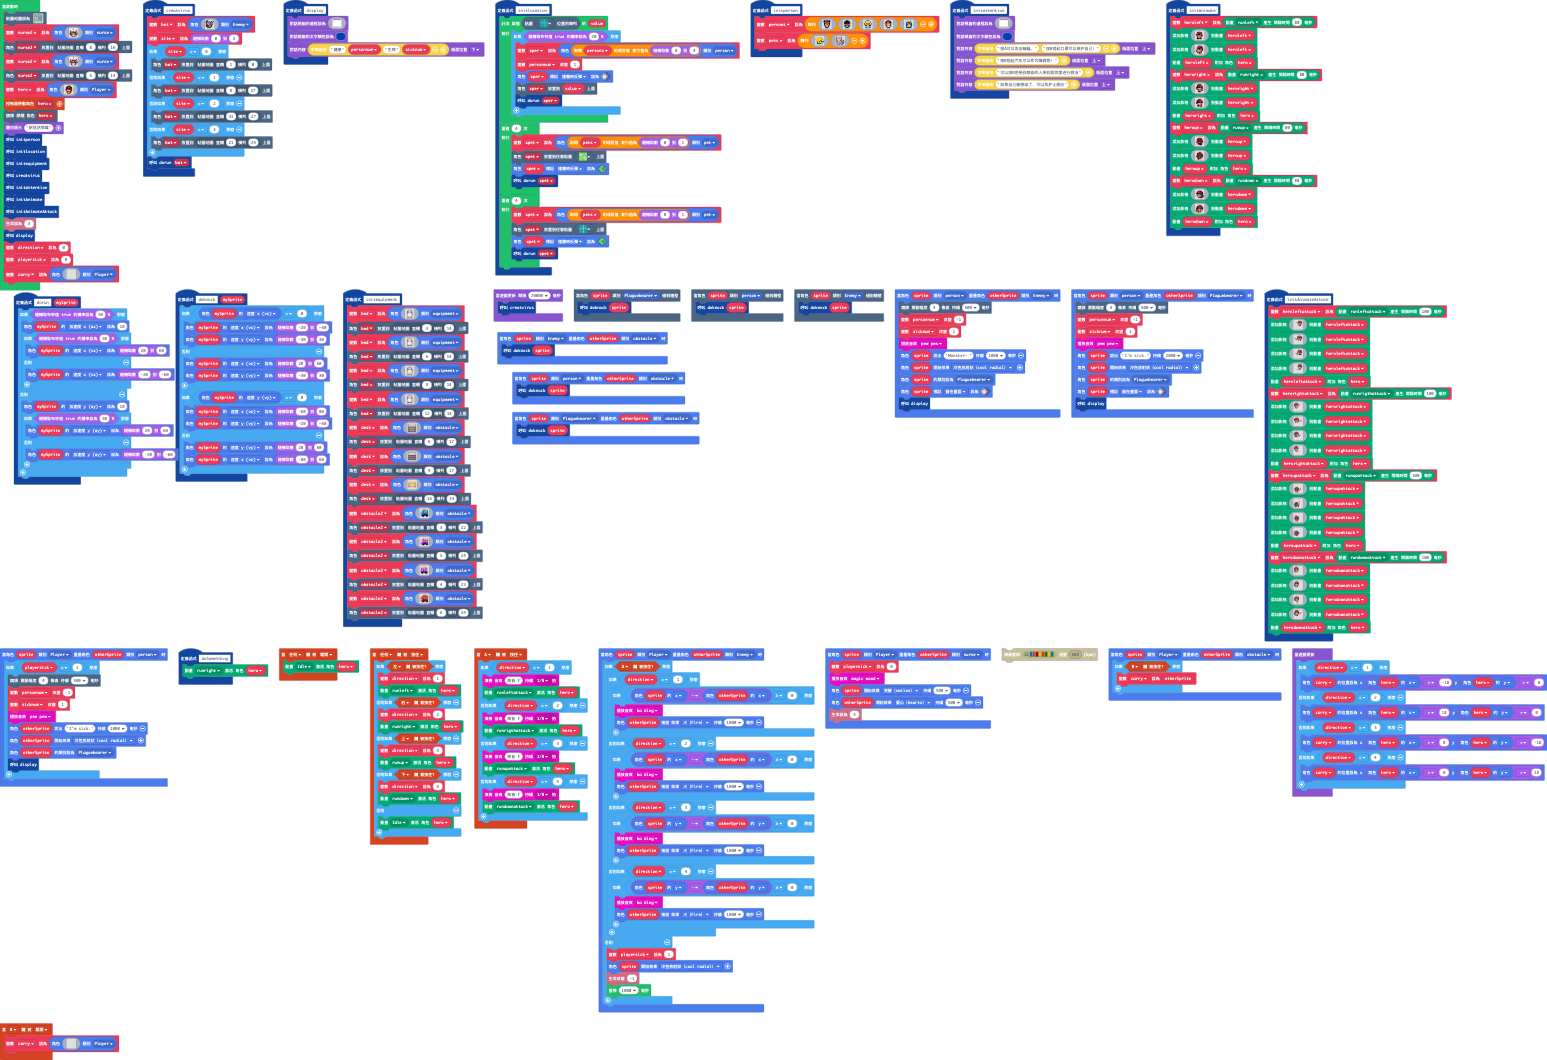
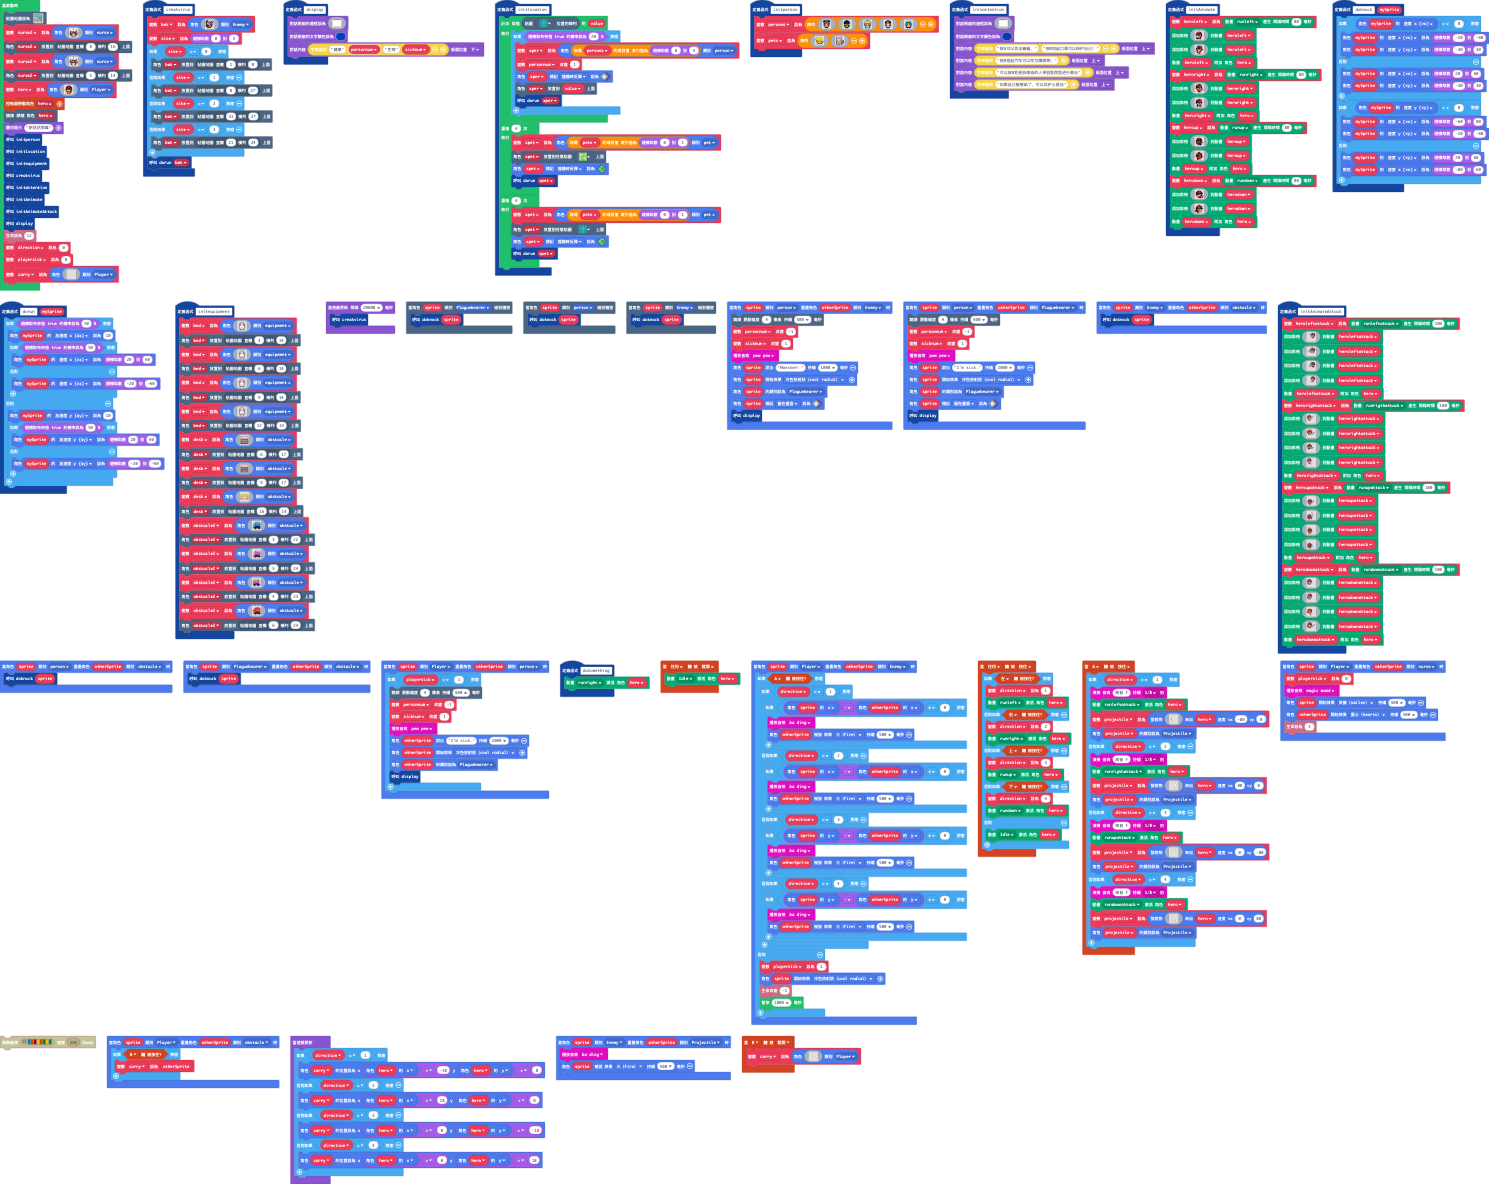
增加了剑气

diff --git a/main.ts b/main.ts
@@ -423,6 +423,10 @@ function initlocation () {
 sprites.onOverlap(SpriteKind.Enemy, SpriteKind.obstacle, function (sprite, otherSprite) {
     doknock(sprite)
 })
+sprites.onOverlap(SpriteKind.Enemy, SpriteKind.Projectile, function (sprite, otherSprite) {
+    music.baDing.play()
+    sprite.destroy(effects.fire, 500)
+})
 function doSomething () {
     animation.setAction(hero, ActionKind.runright)
 }
@@ -433,15 +437,91 @@ controller.A.onEvent(ControllerButtonEvent.Pressed, function () {
     if (direction == 1) {
         music.playTone(698, music.beat(BeatFraction.Eighth))
         animation.setAction(hero, ActionKind.runleftattack)
+        projectile = sprites.createProjectileFromSprite(img`
+. . . . . . . . . . . . . . . . 
+. . . . . . . . . . . . . . . . 
+. . . . . . . . . . . . . . . . 
+. . . . . b . . . . . . . . . . 
+. . . . b 1 . . . . . . . . . . 
+. . . . 1 . . . . . . . . . . . 
+. . . b 1 . . . . . . . . . . . 
+. . . b 1 . . . . . . . . . . . 
+. . . b 1 . . . . . . . . . . . 
+. . . b b . . . . . . . . . . . 
+. . . . 1 . . . . . . . . . . . 
+. . . . b 1 . . . . . . . . . . 
+. . . . . b 1 . . . . . . . . . 
+. . . . . . b . . . . . . . . . 
+. . . . . . . . . . . . . . . . 
+. . . . . . . . . . . . . . . . 
+`, hero, -80, 0)
+        projectile.setKind(SpriteKind.Projectile)
     } else if (direction == 2) {
         music.playTone(698, music.beat(BeatFraction.Eighth))
         animation.setAction(hero, ActionKind.runrigthattack)
+        projectile = sprites.createProjectileFromSprite(img`
+. . . . . . . . . . . . . . . . 
+. . . . . . . . . . . . . . . . 
+. . . . . . . . . . . . . . . . 
+. . . . . . . . . . b . . . . . 
+. . . . . . . . . . 1 b . . . . 
+. . . . . . . . . . . 1 . . . . 
+. . . . . . . . . . . 1 b . . . 
+. . . . . . . . . . . 1 b . . . 
+. . . . . . . . . . . 1 b . . . 
+. . . . . . . . . . . 1 b . . . 
+. . . . . . . . . . . 1 . . . . 
+. . . . . . . . . . 1 b . . . . 
+. . . . . . . . . 1 b . . . . . 
+. . . . . . . . . b . . . . . . 
+. . . . . . . . . . . . . . . . 
+. . . . . . . . . . . . . . . . 
+`, hero, 80, 0)
+        projectile.setKind(SpriteKind.Projectile)
     } else if (direction == 3) {
         music.playTone(698, music.beat(BeatFraction.Eighth))
         animation.setAction(hero, ActionKind.runupattack)
+        projectile = sprites.createProjectileFromSprite(img`
+. . . . . . . . . . . . . . . . 
+. . . . . . . b b . . . . . . . 
+. . . . . b 1 1 1 1 b . . . . . 
+. . . . . b . . . 1 b . . . . . 
+. . . . b 1 . . . . 1 b . . . . 
+. . . . . . . . . . . . . . . . 
+. . . . . . . . . . . . . . . . 
+. . . . . . . . . . . . . . . . 
+. . . . . . . . . . . . . . . . 
+. . . . . . . . . . . . . . . . 
+. . . . . . . . . . . . . . . . 
+. . . . . . . . . . . . . . . . 
+. . . . . . . . . . . . . . . . 
+. . . . . . . . . . . . . . . . 
+. . . . . . . . . . . . . . . . 
+. . . . . . . . . . . . . . . . 
+`, hero, 0, -80)
+        projectile.setKind(SpriteKind.Projectile)
     } else if (direction == 4) {
         music.playTone(698, music.beat(BeatFraction.Eighth))
         animation.setAction(hero, ActionKind.rundownattack)
+        projectile = sprites.createProjectileFromSprite(img`
+. . . . . . . . . . . . . . . . 
+. . . . . . . . . . . . . . . . 
+. . . . . . . . . . . . . . . . 
+. . . . . . . . . . . . . . . . 
+. . . . . . . . . . . . . . . . 
+. . . . . . . . . . . . . . . . 
+. . . . . . . . . . . . . . . . 
+. . . . . . . . . . . . . . . . 
+. . . . . . . . . . . . . . . . 
+. . . . 1 . . . . . . . . . . . 
+. . . . b 1 . . . . . b . . . . 
+. . . . b 1 . . . . 1 b . . . . 
+. . . . . b 1 1 1 1 b . . . . . 
+. . . . . . . b b . . . . . . . 
+. . . . . . . . . . . . . . . . 
+. . . . . . . . . . . . . . . . 
+`, hero, 0, 80)
+        projectile.setKind(SpriteKind.Projectile)
     }
 })
 sprites.onOverlap(SpriteKind.Player, SpriteKind.Enemy, function (sprite, otherSprite) {
@@ -449,22 +529,22 @@ sprites.onOverlap(SpriteKind.Player, SpriteKind.Enemy, function (sprite, otherSp
         if (direction == 1) {
             if (sprite.x - otherSprite.x >= 0) {
                 music.baDing.play()
-                otherSprite.destroy(effects.fire, 1000)
+                otherSprite.destroy(effects.fire, 500)
             }
         } else if (direction == 2) {
             if (sprite.x - otherSprite.x <= 0) {
                 music.baDing.play()
-                otherSprite.destroy(effects.fire, 1000)
+                otherSprite.destroy(effects.fire, 500)
             }
         } else if (direction == 3) {
             if (sprite.y - otherSprite.y >= 0) {
                 music.baDing.play()
-                otherSprite.destroy(effects.fire, 1000)
+                otherSprite.destroy(effects.fire, 500)
             }
         } else if (direction == 4) {
             if (sprite.y - otherSprite.y <= 0) {
                 music.baDing.play()
-                otherSprite.destroy(effects.fire, 1000)
+                otherSprite.destroy(effects.fire, 500)
             }
         }
     } else {
@@ -1386,6 +1466,7 @@ let heroleftattack: animation.Animation = null
 let obstacle2: Sprite = null
 let desk: Sprite = null
 let bed: Sprite = null
+let projectile: Sprite = null
 let pets: Image[] = []
 let xpet: Sprite = null
 let persons: Image[] = []
@@ -1403,20 +1484,20 @@ let playersick = 0
 let direction = 0
 let hero: Sprite = null
 tiles.setTilemap(tiles.createTilemap(
[2 lines of base64/hex data omitted]
             img`
 2 . 2 2 2 2 2 2 2 2 2 2 2 2 2 2 2 2 2 2 2 2 2 2 2 2 2 2 2 2 2 2 
 2 . 2 . . . . . . 2 . . . . . 2 . . . . . . . . 2 . . . . . . 2 
 2 . 2 . . . . . . 2 . . . . . 2 . . . . . . . . 2 . . . . . . 2 
 2 . 2 . . . . . . 2 . . . . . 2 . . . . . . . . 2 . . . . . . 2 
-2 . 2 2 2 . . 2 2 2 . 2 2 2 . 2 2 2 . . 2 2 2 2 2 . . 2 . . . 2 
+2 . . 2 2 . . 2 2 2 . . 2 2 2 2 2 2 . . 2 2 2 2 2 . . 2 . . . 2 
 2 . . . . . . . . . . . . . . . . . . . . . . . . . . 2 2 2 2 2 
-2 . 2 2 2 2 2 2 2 2 2 2 2 2 . 2 2 2 2 2 2 2 2 2 2 2 . 2 . . . 2 
+2 . 2 2 2 2 2 2 2 2 2 2 2 2 . . 2 2 2 2 2 2 2 2 2 2 . 2 . . . 2 
 2 . 2 . . . . . . . . . . 2 . 2 . . . . 2 . . . . 2 . 2 . . . 2 
 2 . 2 . . . . . . . . . . 2 . . . . . . 2 . . . . . . 2 . . . 2 
 2 . 2 . . . . . . . . . . 2 . . . . . . 2 . . . . . . 2 . . . 2 
 2 . 2 . . . . . . . . . . 2 . 2 . . . . 2 . . . . 2 . . . . . 2 
-2 . 2 2 2 2 2 . . 2 2 2 2 2 . 2 2 2 2 2 2 2 2 2 2 2 . . . . . 2 
+2 . . 2 2 2 2 . . 2 2 2 2 2 . . 2 2 2 2 2 2 2 2 2 . . . . . . 2 
 2 . . . . . . . . . . . . . . . . . . . . . . . . . . 2 . . . 2 
 2 . 2 2 2 2 2 2 2 2 2 2 2 2 . 2 2 2 2 2 2 2 2 2 2 2 . 2 . . . 2 
 2 . 2 . . . . . . . . . . 2 . 2 . . . . . . . . . 2 . 2 . . . 2 
@@ -1426,19 +1507,19 @@ tiles.setTilemap(tiles.createTilemap(
 2 . 2 . . . . . . . . . . 2 . 2 . . . . . . . . . 2 . 2 . . . 2 
 2 . 2 2 2 2 2 . . 2 2 2 2 2 . 2 2 2 2 . . . 2 2 2 2 . 2 . . . 2 
 2 . . . . . . . . . . . . . . . . . . . . . . . . . . 2 . . . 2 
-2 . 2 2 2 2 2 2 2 2 2 2 2 2 . 2 2 2 2 2 . 2 2 2 2 2 . . . . . 2 
-2 . 2 . . . . . . . . . . 2 . 2 . . . . . . . . . 2 . . . . . 2 
-2 . 2 . . . . . . . . . . 2 . . . . . . 2 2 . . . . . 2 . . . 2 
-2 . 2 . . . . . . . . . . 2 . . . . . . 2 2 . . . . . 2 . . . 2 
-2 . 2 . . . . . . . . . . 2 . 2 . . . . . . . . . 2 . 2 . . . 2 
-2 . 2 2 2 2 2 . . 2 2 2 2 2 . 2 2 2 2 2 . 2 2 2 2 2 . 2 2 2 2 2 
+2 . . 2 2 2 2 2 2 2 2 2 . . . 2 2 2 2 2 . 2 2 2 2 . . . . . . 2 
+2 . 2 . . . . . . . . 2 . . . 2 . . . . . . . . 2 . . . . . . 2 
+2 . 2 . . . . . . . . 2 . 2 . . . . . 2 2 . . . . . . 2 . . . 2 
+2 . 2 . . . . . . . . 2 . 2 . . . . . 2 2 . . . . . . 2 . . . 2 
+2 . 2 . . . . . . . . 2 . . . 2 . . . . . . . . 2 . . 2 . . . 2 
+2 . . 2 2 2 2 . . 2 2 2 . . . 2 2 2 2 2 . 2 2 2 2 . . 2 2 2 2 2 
 . . . . . . . . . . . . . . . . . . . . . . . . . . . . . . . . 
-. . . . . . . . . . . . . . . . . . . . . . . . . . . . . . . 2 
+2 2 2 2 . . . . . . . . 2 2 2 2 . . . . . . . . . . . . 2 2 2 2 
 2 . . . . . . . . . . . . . . . . . . . . . . . . . . . . . . 2 
 2 . . . . . . . . . . . . . . . . . . . . . . . . . . . . . . 2 
 2 2 2 2 2 2 2 2 2 2 2 2 2 2 2 2 2 2 2 2 2 2 2 2 2 2 2 2 2 2 2 2 
 `,
-            [myTiles.tile0,sprites.castle.tileGrass2,sprites.builtin.field0,sprites.vehicle.roadVertical,sprites.vehicle.roadTurn3,sprites.vehicle.roadHorizontal,sprites.vehicle.roadIntersection1,sprites.vehicle.roadTurn2,sprites.vehicle.roadIntersection4,sprites.vehicle.roadIntersection2,sprites.vehicle.roadIntersection3,sprites.dungeon.hazardSpike,sprites.dungeon.buttonTealDepressed,sprites.builtin.field1,sprites.castle.shrub,sprites.castle.rock1,sprites.castle.rock0,sprites.castle.rock2,sprites.castle.saplingPine,sprites.builtin.crowd0,sprites.builtin.brick,sprites.dungeon.doorLockedWest,sprites.dungeon.doorOpenWest,myTiles.tile1,myTiles.tile2,myTiles.tile3,myTiles.tile4,myTiles.tile5,sprites.dungeon.floorDark0,sprites.dungeon.floorLight4,sprites.dungeon.stairNorth,sprites.dungeon.purpleOuterWest2,sprites.dungeon.floorLight0,sprites.dungeon.chestClosed,sprites.dungeon.collectibleInsignia,sprites.builtin.forestTiles21,sprites.dungeon.stairSouth,sprites.castle.saplingOak,sprites.dungeon.greenOuterNorth2,sprites.dungeon.greenOuterSouth2,sprites.dungeon.greenOuterEast2,sprites.dungeon.greenOuterWest2,sprites.dungeon.stairLadder,sprites.dungeon.purpleOuterNorth2,sprites.castle.tileDarkGrass2,sprites.builtin.forestTiles0,sprites.dungeon.floorDarkDiamond,sprites.dungeon.floorLight3,sprites.dungeon.floorLightMoss,sprites.dungeon.floorLight5,sprites.dungeon.stairEast,sprites.dungeon.stairWest,sprites.dungeon.stairLarge,sprites.builtin.forestTiles22,sprites.builtin.forestTiles3,sprites.builtin.forestTiles20,sprites.builtin.forestTiles4,sprites.castle.tilePath1,sprites.castle.tilePath2,sprites.castle.tilePath4,sprites.castle.tilePath7,sprites.castle.tilePath8,sprites.castle.tilePath3,sprites.castle.tilePath6,sprites.castle.tilePath5,sprites.builtin.crowd2,sprites.dungeon.doorClosedEast,sprites.dungeon.doorClosedWest,sprites.dungeon.doorLockedEast,sprites.dungeon.doorClosedSouth,sprites.dungeon.doorOpenNorth],
+            [myTiles.tile0,sprites.castle.tileGrass2,sprites.builtin.field0,sprites.vehicle.roadVertical,sprites.vehicle.roadTurn3,sprites.vehicle.roadHorizontal,sprites.vehicle.roadIntersection1,sprites.vehicle.roadTurn2,sprites.vehicle.roadIntersection4,sprites.vehicle.roadIntersection2,sprites.vehicle.roadIntersection3,sprites.dungeon.hazardSpike,sprites.dungeon.buttonTealDepressed,sprites.builtin.field1,sprites.castle.shrub,sprites.castle.rock1,sprites.castle.rock0,sprites.castle.rock2,sprites.castle.saplingPine,sprites.builtin.crowd0,sprites.builtin.brick,sprites.dungeon.doorLockedWest,sprites.dungeon.doorOpenWest,myTiles.tile1,myTiles.tile2,myTiles.tile3,myTiles.tile4,myTiles.tile5,sprites.dungeon.floorDark0,sprites.dungeon.floorLight4,sprites.dungeon.stairNorth,sprites.dungeon.purpleOuterWest2,sprites.dungeon.floorLight0,sprites.dungeon.chestClosed,sprites.dungeon.collectibleInsignia,sprites.builtin.forestTiles21,sprites.dungeon.stairSouth,sprites.castle.saplingOak,sprites.dungeon.greenOuterNorth2,sprites.dungeon.greenOuterSouth2,sprites.dungeon.greenOuterEast2,sprites.dungeon.greenOuterWest2,sprites.dungeon.stairLadder,sprites.dungeon.purpleOuterNorth2,sprites.castle.tileDarkGrass2,sprites.builtin.forestTiles0,sprites.dungeon.floorDarkDiamond,sprites.dungeon.floorLight3,sprites.dungeon.floorLightMoss,sprites.dungeon.floorLight5,sprites.dungeon.stairEast,sprites.dungeon.stairWest,sprites.dungeon.stairLarge,sprites.builtin.forestTiles22,sprites.builtin.forestTiles3,sprites.builtin.forestTiles20,sprites.builtin.forestTiles4,sprites.castle.tilePath1,sprites.castle.tilePath2,sprites.castle.tilePath4,sprites.castle.tilePath7,sprites.castle.tilePath8,sprites.castle.tilePath3,sprites.castle.tilePath6,sprites.castle.tilePath5,sprites.builtin.crowd2,sprites.dungeon.doorClosedEast,sprites.dungeon.doorClosedWest,sprites.dungeon.doorLockedEast,sprites.dungeon.doorClosedSouth,sprites.dungeon.doorOpenNorth,sprites.vehicle.roadTurn1,sprites.vehicle.roadTurn4],
             TileScale.Sixteen
         ))
 let nurse2 = sprites.create(img`
@@ -1507,8 +1588,8 @@ creatvirus()
 initattention()
 initAnimate()
 initAnimateAttack()
-info.setLife(3)
 display()
+info.setLife(12)
 direction = 0
 playersick = 0
 carry = sprites.create(img`
